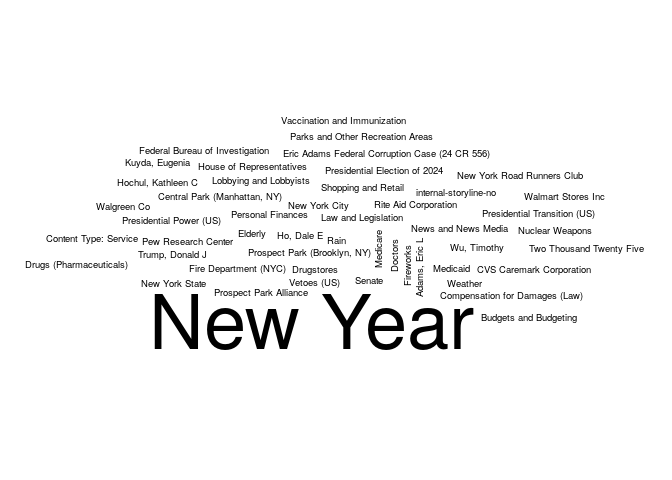
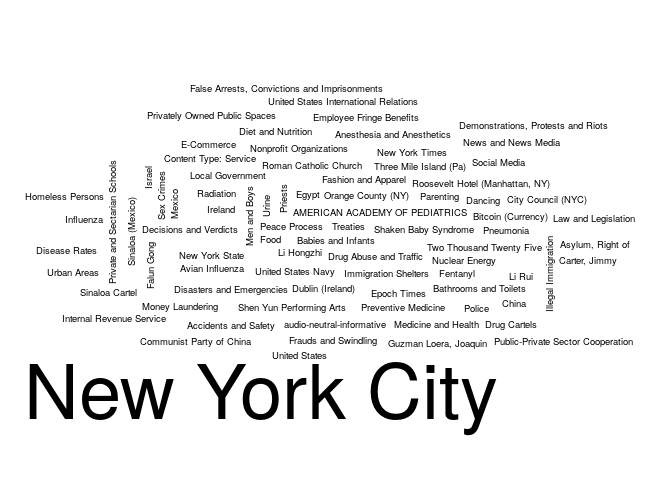
Updating the NYT report

Changed region(s): [[0.0312, 0.1562, 0.9688, 0.9062]]

diff --git a/03-nytimes/README.md b/03-nytimes/README.md
@@ -5,7 +5,7 @@ The following is an example of how to use the [NYTimes
 API](https://developer.nytimes.com/) to get a list of articles related
 to a particular term. Here we are searching articles that include the
 term `"health"`, and that were published up to seven days ago since
-2024-12-23.
+2024-12-30.
 
 ``` r
 # Preparing a function to use the GET method with the NYTimes API
@@ -83,25 +83,25 @@ colnames(tab) <- c("Keyword", "# Articles")
 knitr::kable(tab, row.names = FALSE)
 ```
 
-| Keyword                                        | \# Articles |
-|:-----------------------------------------------|------------:|
-| Artificial Intelligence                        |          10 |
-| Drones (Pilotless Planes)                      |          10 |
-| New Year                                       |          10 |
-| Polls and Public Opinion                       |          10 |
-| United States International Relations          |          10 |
-| United States Politics and Government          |          10 |
-| Adams, Eric L                                  |           5 |
-| Budgets and Budgeting                          |           5 |
-| Central Park (Manhattan, NY)                   |           5 |
-| Compensation for Damages (Law)                 |           5 |
-| Content Type: Service                          |           5 |
-| CVS Caremark Corporation                       |           5 |
-| Doctors                                        |           5 |
-| Drugs (Pharmaceuticals)                        |           5 |
-| Drugstores                                     |           5 |
-| Elderly                                        |           5 |
-| Eric Adams Federal Corruption Case (24 CR 556) |           5 |
-| Federal Bureau of Investigation                |           5 |
-| Fire Department (NYC)                          |           5 |
-| Fireworks                                      |           5 |
+| Keyword                               | \# Articles |
+|:--------------------------------------|------------:|
+| Child Abuse and Neglect               |          10 |
+| New York City                         |          10 |
+| United States Politics and Government |          10 |
+| Accidents and Safety                  |           5 |
+| AMERICAN ACADEMY OF PEDIATRICS        |           5 |
+| Anesthesia and Anesthetics            |           5 |
+| Asylum, Right of                      |           5 |
+| audio-neutral-informative             |           5 |
+| Avian Influenza                       |           5 |
+| Babies and Infants                    |           5 |
+| Bathrooms and Toilets                 |           5 |
+| Bitcoin (Currency)                    |           5 |
+| Carter, Jimmy                         |           5 |
+| China                                 |           5 |
+| City Council (NYC)                    |           5 |
+| Communist Party of China              |           5 |
+| Content Type: Service                 |           5 |
+| Dancing                               |           5 |
+| Decisions and Verdicts                |           5 |
+| Demonstrations, Protests and Riots    |           5 |
